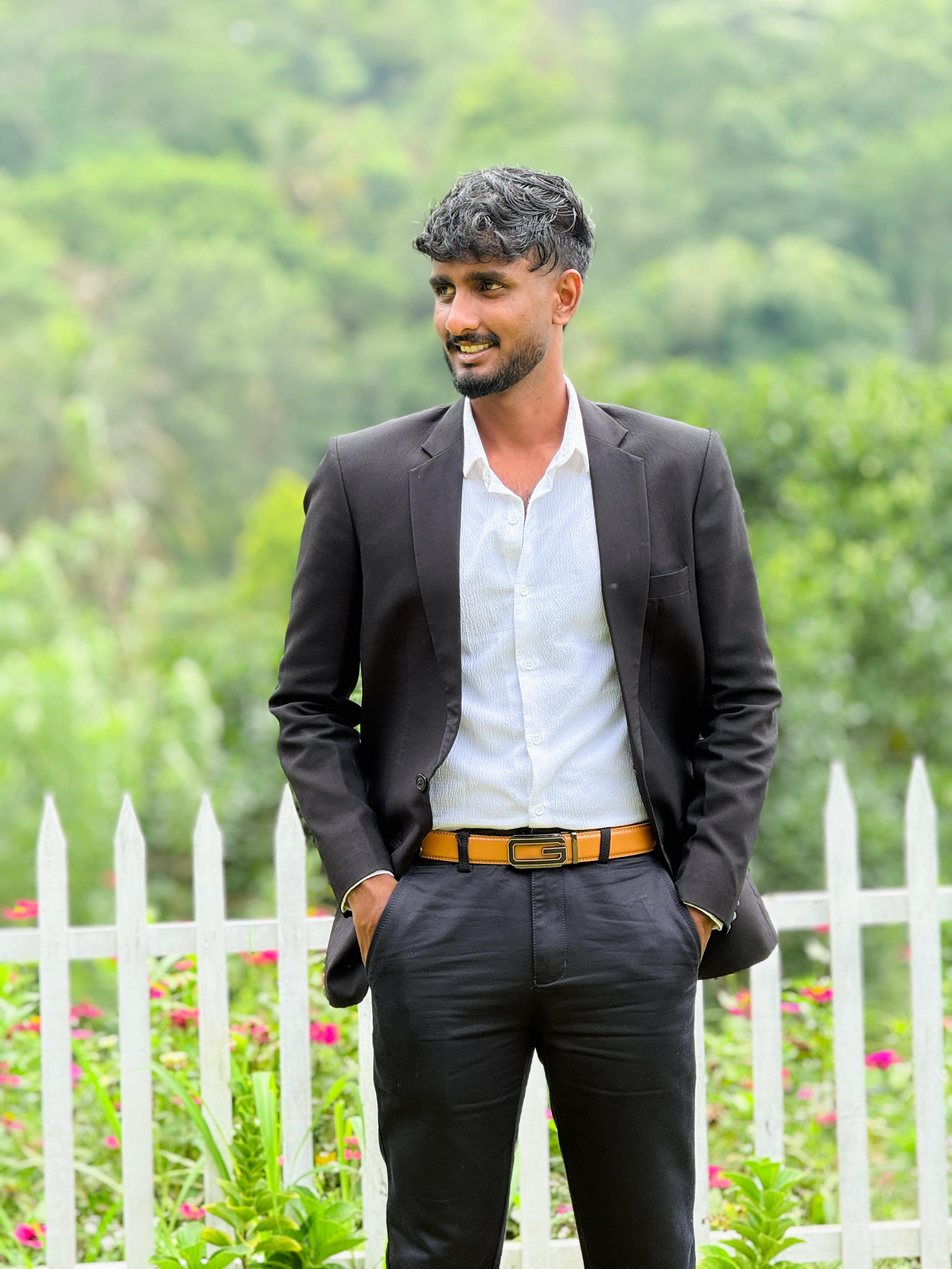
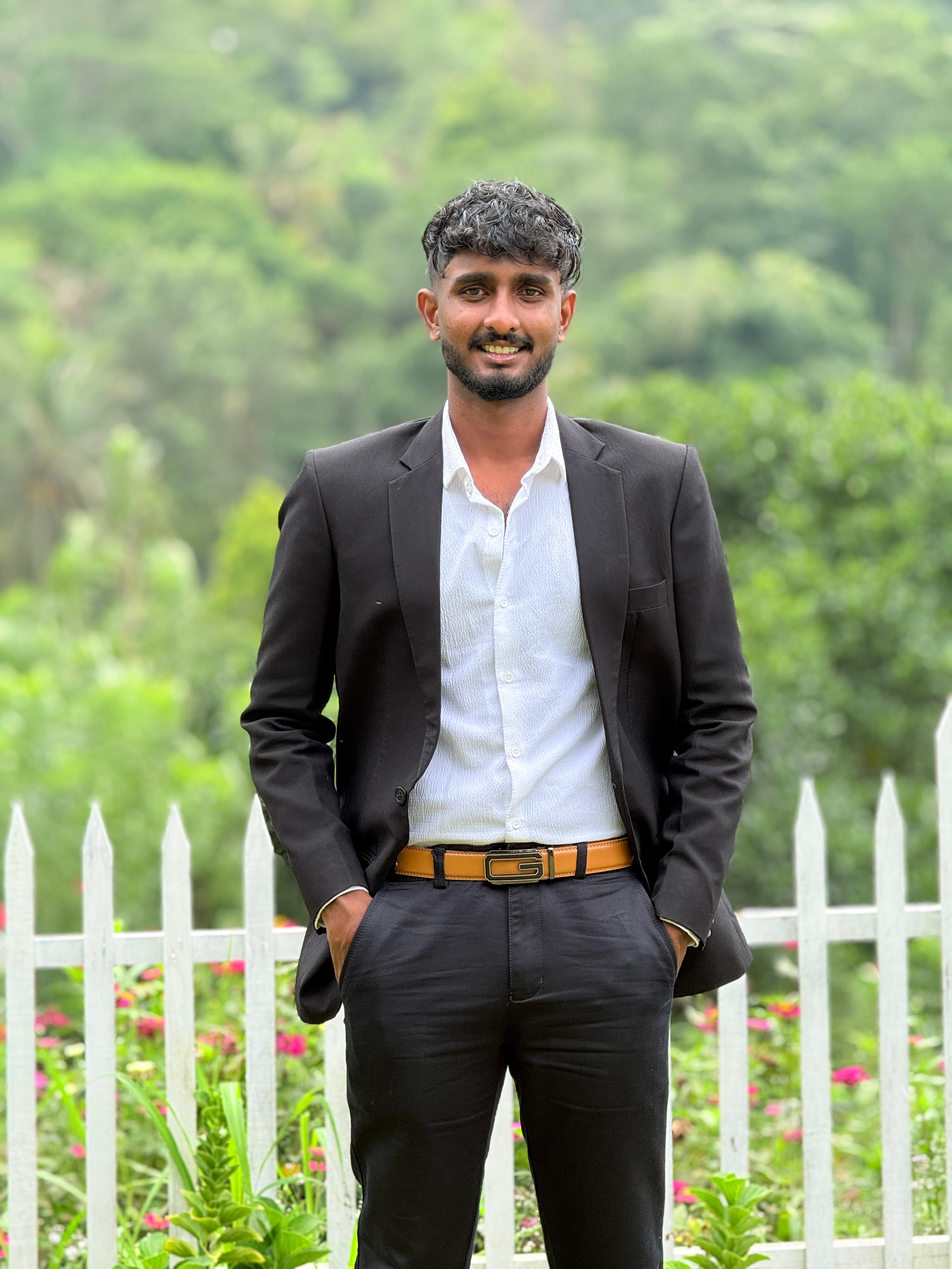
Update hero photo and face crop

diff --git a/portfolio/index.html b/portfolio/index.html
@@ -75,7 +75,7 @@
       <span class="hero-deco hero-deco-lt" aria-hidden="true">&lt;</span>
       <span class="hero-deco hero-deco-gt" aria-hidden="true">&gt;</span>
       <div class="hero-photo">
-        <img src="assets/photo.jpeg" alt="Thaveesha Weerasinghe" width="400" height="400" />
+        <img src="assets/photo.jpeg?v=3" alt="Thaveesha Weerasinghe" width="400" height="400" />
       </div>
     </div>
   </div>

diff --git a/portfolio/style.css b/portfolio/style.css
@@ -410,7 +410,7 @@ button { font-family: inherit; }
   width: 100%;
   height: 100%;
   object-fit: cover;
-  object-position: 50% 12%;
+  object-position: 50% 8%;
   border-radius: 50%;
   border: 4px solid var(--bg-alt);
 }
